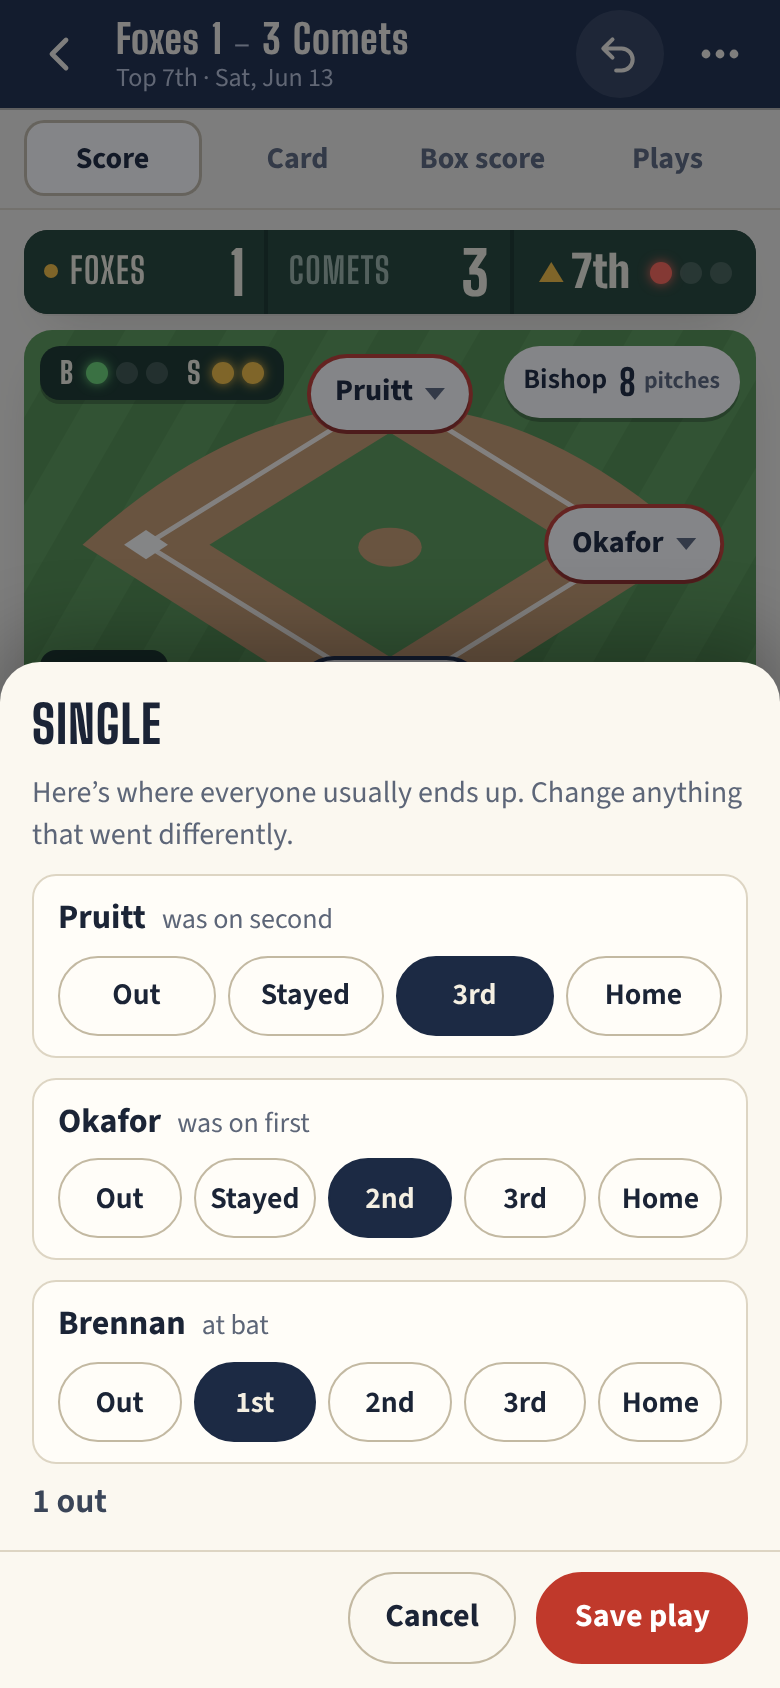
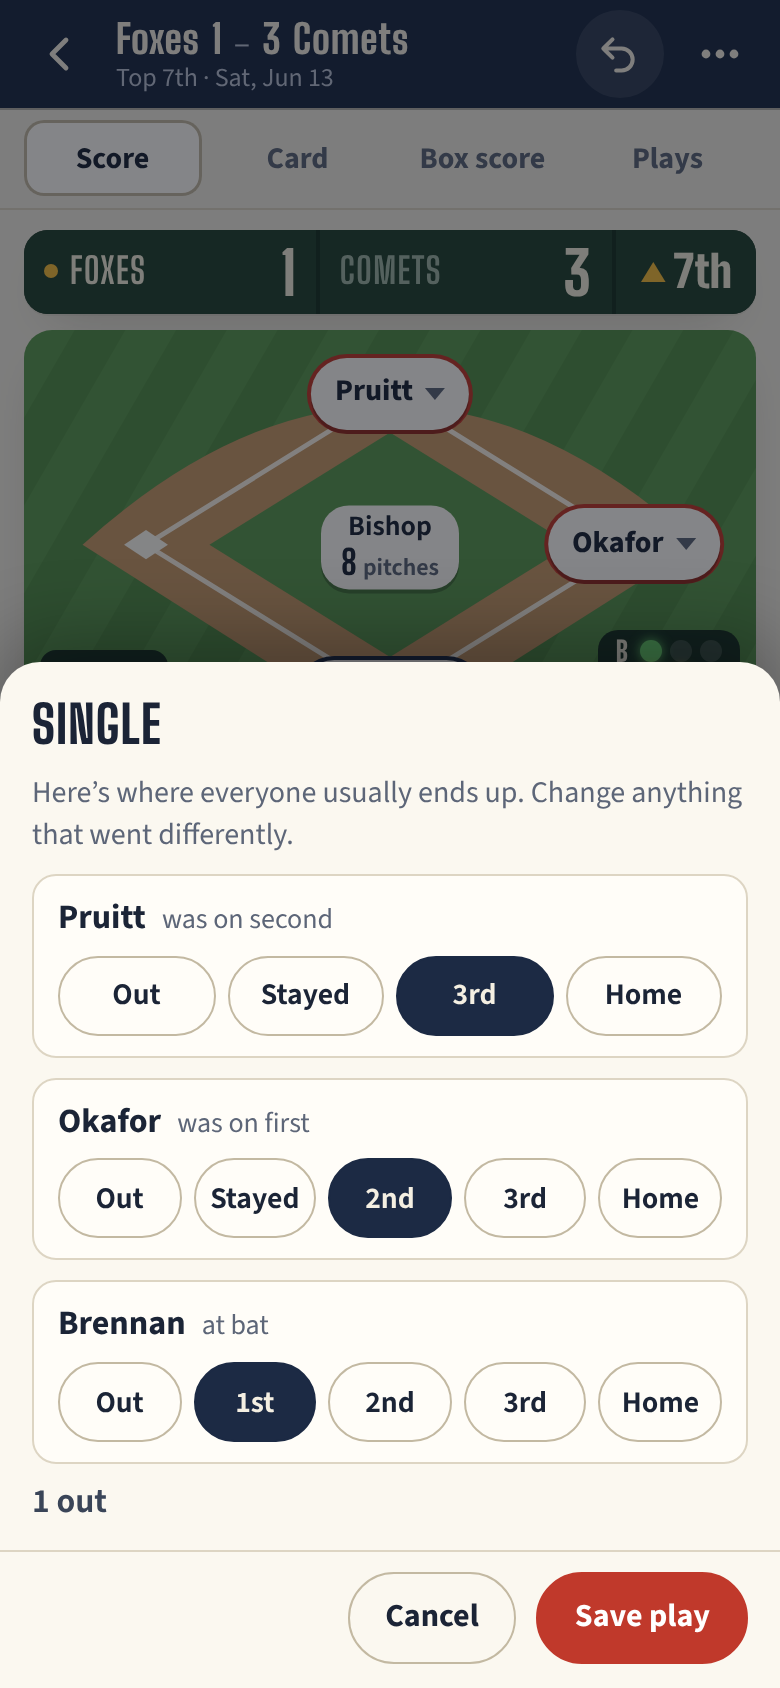
The pitcher stands on the mound, and the count and outs are a board in the corner
Answers 65ae80bd (the runner on second hides under the pitcher's name)
and the board part of 826654c6 (B-S-O like a ballpark). The pitcher's
chip sat at the top right and the count at the top left, sharing the
top edge with the runner on second: with Abernathy on second and
Halvorsen pitching, the chip covered his name and his arrow, worse at
360 wide. Now the pitcher is on the mound, centred and no wider than the
gap between the runners on first and third, with the pitch count under
the name. The count is a board in the bottom right corner, opposite On
deck, with a row of lamps each for B, S and O, and a visible O, as a
ballpark has it (just the outs when pitches aren't counted). The outs
move there from the green strip, so they show once. The top edge is the
runner on second's. Zoomed past 300 pixels across, the board goes above
the field in one row and the pitcher below it, as before. The e2e puts
long names on second and on the mound at 360, 390, 768 and 1024 wide:
nothing on the field covers anything else (on the old layout the count
and the pitcher both covered the runner), the pitcher is on the mound
and the board in the corner. The README pictures are redrawn.

Claude-Session: https://claude.ai/code/session_0157za5jQT97q7xA8DmFNyQL

diff --git a/css/app.css b/css/app.css
@@ -334,9 +334,6 @@ details.lineup summary small { color: var(--muted); font-weight: 400; }
 .bug-state { flex: none; display: flex; align-items: center; gap: 10px; padding: 6px 12px; background: var(--board); }
 .bug-state .inn { font: 800 22px/1 var(--board-font); display: flex; align-items: center; gap: 3px; }
 .bug-state .arrow { font-size: 13px; color: var(--lamp-s); }
-.outs { display: flex; align-items: center; gap: 4px; }
-.outs i, .count i { display: inline-block; width: 11px; height: 11px; border-radius: 50%; background: var(--lamp-off); }
-.outs i.on { background: var(--lamp-o); box-shadow: 0 0 6px var(--lamp-o); }
 
 /* The field, with the runners on it. */
 .field-col { display: grid; gap: 6px; align-content: start; }
@@ -362,18 +359,28 @@ details.lineup summary small { color: var(--muted); font-weight: 400; }
 .batter { box-shadow: 0 2px 0 rgba(0, 0, 0, .25), 0 0 0 2px var(--navy); max-width: 40%; }
 @media (prefers-color-scheme: dark) { .batter { box-shadow: 0 2px 0 rgba(0, 0, 0, .25), 0 0 0 2px var(--on-navy); } }
 .batter small { flex: none; font: 800 15px/1 var(--board-font); color: var(--muted); }
-.pitcher { left: auto; right: 8px; top: 8px; transform: none; box-shadow: 0 2px 0 rgba(0, 0, 0, .25); flex-wrap: nowrap; font-weight: 650; font-size: 14px; max-width: 46%; padding: 4px 10px; }
-.pitcher b { flex: none; font: 800 18px/1 var(--board-font); margin-left: 2px; }
-.pitcher small { flex: none; color: var(--muted); font-size: 12px; }
-.count {
-  position: absolute; left: 8px; top: 8px; display: flex; align-items: center; gap: 4px;
-  padding: 6px 10px; border-radius: 10px; background: var(--board-2); color: var(--board-ink);
-  font: 800 15px/1 var(--board-font); box-shadow: 0 2px 0 rgba(0, 0, 0, .25);
+/* The pitcher on the mound: the name, and the pitch count under it. Narrow enough to stay clear of the runners on
+   first and third (each up to 34% wide, either side of it). */
+.pitcher {
+  left: 50%; top: 52.4%; max-width: 30%; display: inline-grid; grid-template-columns: auto auto; justify-content: center; align-items: baseline;
+  column-gap: 3px; row-gap: 1px; padding: 4px 10px; border-radius: 14px; box-shadow: 0 2px 0 rgba(0, 0, 0, .25);
+  font-weight: 650; font-size: 14px; text-align: center;
 }
-.count span + i { margin-left: 2px; }
-.count i + span { margin-left: 6px; }
+.pitcher span { grid-column: 1 / -1; }
+.pitcher b { justify-self: end; font: 800 17px/1 var(--board-font); }
+.pitcher small { justify-self: start; color: var(--muted); font-size: 12px; }
+/* The count and the outs, a row of lamps each, as a ballpark's board has them. */
+.count {
+  position: absolute; right: 8px; bottom: 8px; display: grid; gap: 3px;
+  padding: 5px 9px 5px 7px; border-radius: 10px; background: var(--board-2); color: var(--board-ink);
+  font: 800 14px/11px var(--board-font); box-shadow: 0 2px 0 rgba(0, 0, 0, .25);
+}
+.count .lamps { display: flex; align-items: center; gap: 4px; }
+.count .lamps > span[aria-hidden] { width: 10px; text-align: center; }
+.count i { display: inline-block; width: 11px; height: 11px; border-radius: 50%; background: var(--lamp-off); }
 .count i.b.on { background: var(--lamp-b); box-shadow: 0 0 6px var(--lamp-b); }
 .count i.s.on { background: var(--lamp-s); box-shadow: 0 0 6px var(--lamp-s); }
+.count i.o.on { background: var(--lamp-o); box-shadow: 0 0 6px var(--lamp-o); }
 .deck {
   position: absolute; left: 8px; bottom: 8px; margin: 0; max-width: 30%; padding: 3px 8px; border-radius: 8px;
   background: var(--board-2); color: var(--board-ink); box-shadow: 0 2px 0 rgba(0, 0, 0, .25);
@@ -748,9 +755,9 @@ html:has(dialog.sheet[open]) { overflow: hidden; scrollbar-gutter: stable; }
   /* The field is too small for everything on it: the count goes above it, and On deck and the pitcher below. */
   .field { overflow: visible; margin: 34px 0 46px; }
   .infield { border-radius: 14px; }
-  .count { top: -34px; left: 0; }
+  .count { top: -30px; bottom: auto; left: 0; right: auto; grid-auto-flow: column; column-gap: 10px; }
   .deck { top: calc(100% + 6px); bottom: auto; left: 0; max-width: 40%; }
-  .pitcher { top: calc(100% + 6px); right: 0; max-width: 58%; }
+  .pitcher { top: calc(100% + 6px); left: auto; right: 0; transform: none; max-width: 58%; }
   .runner, .batter { font-size: 13px; padding: 3px 8px; min-height: 30px; }
 }
 @media (max-width: 240px) {

diff --git a/js/game.js b/js/game.js
@@ -410,7 +410,6 @@ function liveHtml() {
       </div>
       <div class="bug-state">
         <div class="inn">${S.over ? `<b>${esc(halfLabel(S))}</b>` : `<span class="arrow" aria-hidden="true">${S.half ? '▼' : '▲'}</span><span class="sr">${S.half ? 'Bottom' : 'Top'} of the </span><b>${ord(S.inn)}</b>`}</div>
-        ${S.over ? '' : `<div class="outs">${dots(S.outs, 3, 'o')}<span class="sr">${few(S.outs, 'out')}</span></div>`}
       </div>
     </div>`;
   if (readOnly) {
@@ -418,12 +417,17 @@ function liveHtml() {
       <div class="shared-note"><p>Every box on the card is one trip to the plate. Tap one to see what happened, or see <button type="button" class="link-btn" data-a="help">how to read the card</button>.</p>
       ${later && !onSave ? '' : '<a class="btn" href="#/new">Score your own game</a>'}</div>`;
   }
+  // The count and the outs, as a ballpark's board shows them: a row of lamps each for B, S and O (just the outs when
+  // pitches aren't counted), in the corner opposite On deck. The pitcher is on the mound, and the top edge is left
+  // to the runner on second.
+  const lamps = (k, on, of, cls) => `<span class="lamps"><span aria-hidden="true">${k}</span>${dots(on, of, cls)}</span>`;
+  const board = `<div class="count">${g.pitches ? `<span class="sr">${countWords()}</span>${lamps('B', S.b, 3, 'b')}${lamps('S', S.s, 2, 's')}` : ''}<span class="lamps outs"><span aria-hidden="true">O</span>${dots(S.outs, 2, 'o')}<span class="sr">${few(S.outs, 'out')}</span></span></div>`;
   const field = `<div class="field${S.over ? ' over' : ''}">
       ${infieldSvg()}
       ${[3, 2, 1].map(runner).join('')}
       ${S.over ? '' : `<button type="button" class="batter" data-a="batter" style="left:${BASE_AT[0][0]}%;top:${BASE_AT[0][1]}%" aria-label="At bat: ${esc(n.name)}. Tap to name or pinch-hit."><small>${n.slot + 1}</small><span>${esc(n.name)}</span></button>`}
       ${S.over ? '' : `<p class="deck"><span>On deck</span> ${esc(n.deckName)}${top ? '<small>Top of the order</small>' : ''}</p>`}
-      ${g.pitches && !S.over ? `<div class="count"><span class="sr">${countWords()}</span><span aria-hidden="true">B</span>${dots(S.b, 3, 'b')}<span aria-hidden="true">S</span>${dots(S.s, 2, 's')}</div>` : ''}
+      ${S.over ? '' : board}
       ${S.over ? '' : `<button type="button" class="pitcher" data-a="pitcher" aria-label="Pitching: ${esc(n.pitcherName)}${g.pitches ? ', ' + n.pitches + ' pitches' : ''}. Tap to change pitchers."><span>${esc(n.pitcherName)}</span>${g.pitches ? `<b>${n.pitches}</b><small>pitch${n.pitches === 1 ? '' : 'es'}</small>` : ''}</button>`}
     </div>`;
   const last = G.ev.length ? S.text[G.ev.length - 1] : '';
